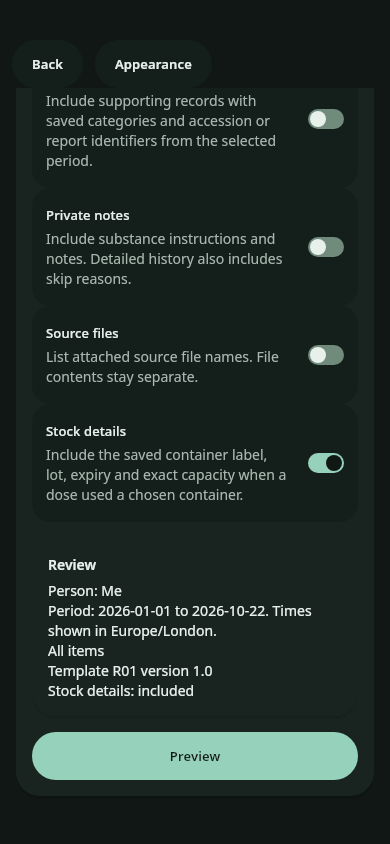
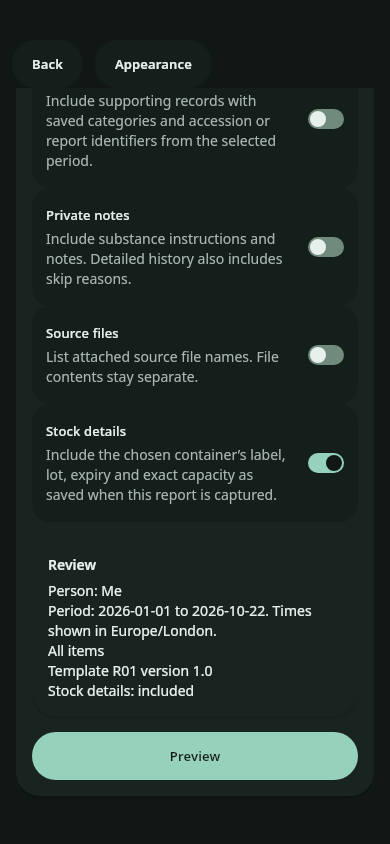
Verify optional stock reports and clarify capture timing
- Keep reviewed source facts frozen after container metadata edits and test new captures separately.

- Explain capture-time values beside the default-off report choice.

- Verify 86 focused report/stock checks, updated light/dark layout captures and clean analysis.

Changed region(s): [[0.3077, 0.5237, 0.7385, 0.6161], [0.1231, 0.5853, 0.3077, 0.6161]]

diff --git a/test/reports/report_stock_test.dart b/test/reports/report_stock_test.dart
@@ -270,6 +270,68 @@ void main() {
       },
     );
 
+    test(
+      'a reviewed capture keeps its source facts after container edits',
+      () async {
+        final chosen = await container(
+          command: 'source',
+          lot: 'BEFORE',
+          capacity: ExactAmount.parseEntry('0.125'),
+        );
+        await take(chosen, command: 'dose', at: DateTime.utc(2026, 10, 5, 9));
+        final selection = _selection(
+          from: DateTime.utc(2026, 10, 1),
+          before: DateTime.utc(2026, 11, 1),
+        );
+        final first = await store.captureReport(
+          selection: selection,
+          now: () => DateTime.utc(2026, 10, 20, 12),
+        );
+        final current = (await store.stockContainerById(
+          personId: meId,
+          containerId: chosen.id,
+        ))!;
+        await store.updateStockMetadata(
+          commandId: 'edit-source',
+          personId: meId,
+          expectedPersonRevision: (await store.profileById(meId))!.revision,
+          expectedGeneration: store.generation,
+          containerId: chosen.id,
+          expectedContainerRevision: current.revision,
+          lot: 'AFTER',
+          expiryDate: CivilDate(2027, 1, 2),
+          capacity: ExactAmount(BigInt.one, BigInt.from(3)),
+        );
+        final second = await store.captureReport(
+          selection: selection,
+          now: () => DateTime.utc(2026, 10, 20, 13),
+        );
+        expect(first.snapshot.records.single.stockSource!.lot, 'BEFORE');
+        expect(first.snapshot.records.single.stockSource!.expiryDate, isNull);
+        expect(
+          first.snapshot.records.single.stockSource!.capacity,
+          ExactAmount.parseEntry('0.125'),
+        );
+        expect(second.snapshot.records.single.stockSource!.lot, 'AFTER');
+        expect(
+          second.snapshot.records.single.stockSource!.capacity,
+          ExactAmount(BigInt.one, BigInt.from(3)),
+        );
+        expect(
+          first.snapshot.structuredText(use24Hour: true),
+          contains('Lot BEFORE'),
+        );
+        expect(
+          first.snapshot.structuredText(use24Hour: true),
+          isNot(contains('Lot AFTER')),
+        );
+        expect(
+          second.snapshot.structuredText(use24Hour: true),
+          contains('Lot AFTER'),
+        );
+      },
+    );
+
     test('missing metadata and a stockless dose stay truthful', () async {
       final bare = await container(command: 'bare-container');
       await take(bare, command: 'bare-take', at: DateTime.utc(2026, 10, 5, 9));

diff --git a/lib/l10n/app_localizations.dart b/lib/l10n/app_localizations.dart
@@ -8112,10 +8112,10 @@ abstract class AppLocalizations {
   /// **'Stock details'**
   String get featureReportStock;
 
-  /// Explains that stock details come from the container chosen when a dose was recorded.
+  /// Explains that the dose links the chosen container, whose displayed values are captured when the report is prepared.
   ///
   /// In en, this message translates to:
-  /// **'Include the saved container label, lot, expiry and exact capacity when a dose used a chosen container.'**
+  /// **'Include the chosen container’s label, lot, expiry and exact capacity as saved when this report is captured.'**
   String get featureReportStockHelp;
 
   /// Review summary when stock details are selected.

diff --git a/lib/domain/reports/report_selection.dart b/lib/domain/reports/report_selection.dart
@@ -30,7 +30,7 @@ final class ReportSelectionFailure implements Exception {
 /// every recorded item in the period; a non-empty set is an exact inclusion.
 /// [eventId] scopes R03 to one recorded event. [includeSkipped] and
 /// [includeUnrecorded] control R02 ledger rows only; R01 ignores them.
-/// [includeStock] adds the chosen container facts captured with each dose. It
+/// [includeStock] adds report-capture facts for each dose's chosen container. It
 /// stays off by default and never infers a source from a balance.
 final class ReportSelection {
   ReportSelection({

diff --git a/lib/l10n/app_localizations_en.dart b/lib/l10n/app_localizations_en.dart
@@ -5064,7 +5064,7 @@ class AppLocalizationsEn extends AppLocalizations {
 
   @override
   String get featureReportStockHelp =>
-      'Include the saved container label, lot, expiry and exact capacity when a dose used a chosen container.';
+      'Include the chosen container’s label, lot, expiry and exact capacity as saved when this report is captured.';
 
   @override
   String get featureReportStockIncluded => 'Stock details: included';

diff --git a/docs/design/roadmap.md b/docs/design/roadmap.md
@@ -81,8 +81,11 @@ records focused checks and light/dark captures. Automatic backup lifecycle work
 remains open. D12a is also integrated and host verified: encrypted alert choices,
 real Android channel variants and a native OS-mute guard, with 126 focused Flutter
 checks, 37 native engine checks, clean analysis and a successful Android Kotlin
-compile. Physical sound/vibration delivery remains unverified. The remaining
-three packages await lead review and integration.
+compile. Physical sound/vibration delivery remains unverified. D13b is integrated:
+stock details are an explicit default-off report choice, with exact chosen-source
+facts in all three PDF/text templates and reviewed-capture isolation after edits.
+The [review](reviews/2026-10-22-next-five/report-stock/README.md) records 86 focused
+checks and theme/layout evidence. History and schedule instructions await review.
 
 ## Claims requiring decisions
 

diff --git a/docs/design/reviews/2026-10-22-next-five/report-stock/README.md b/docs/design/reviews/2026-10-22-next-five/report-stock/README.md
@@ -80,3 +80,9 @@ captures use the real Reports route and device-safe insets:
 
 Physical-device screen readers, measured performance, real product authenticity
 and historical container state at dose time remain outside this evidence.
+
+Lead integration passed 86 focused report and stock-metadata checks and clean
+project analysis. An additional regression confirms that an already-reviewed
+capture keeps its exact lot/capacity after metadata edits, while a later capture
+uses the updated values. Selection helper copy explicitly identifies report
+capture as the source of those values; fresh light/dark captures verify it.
